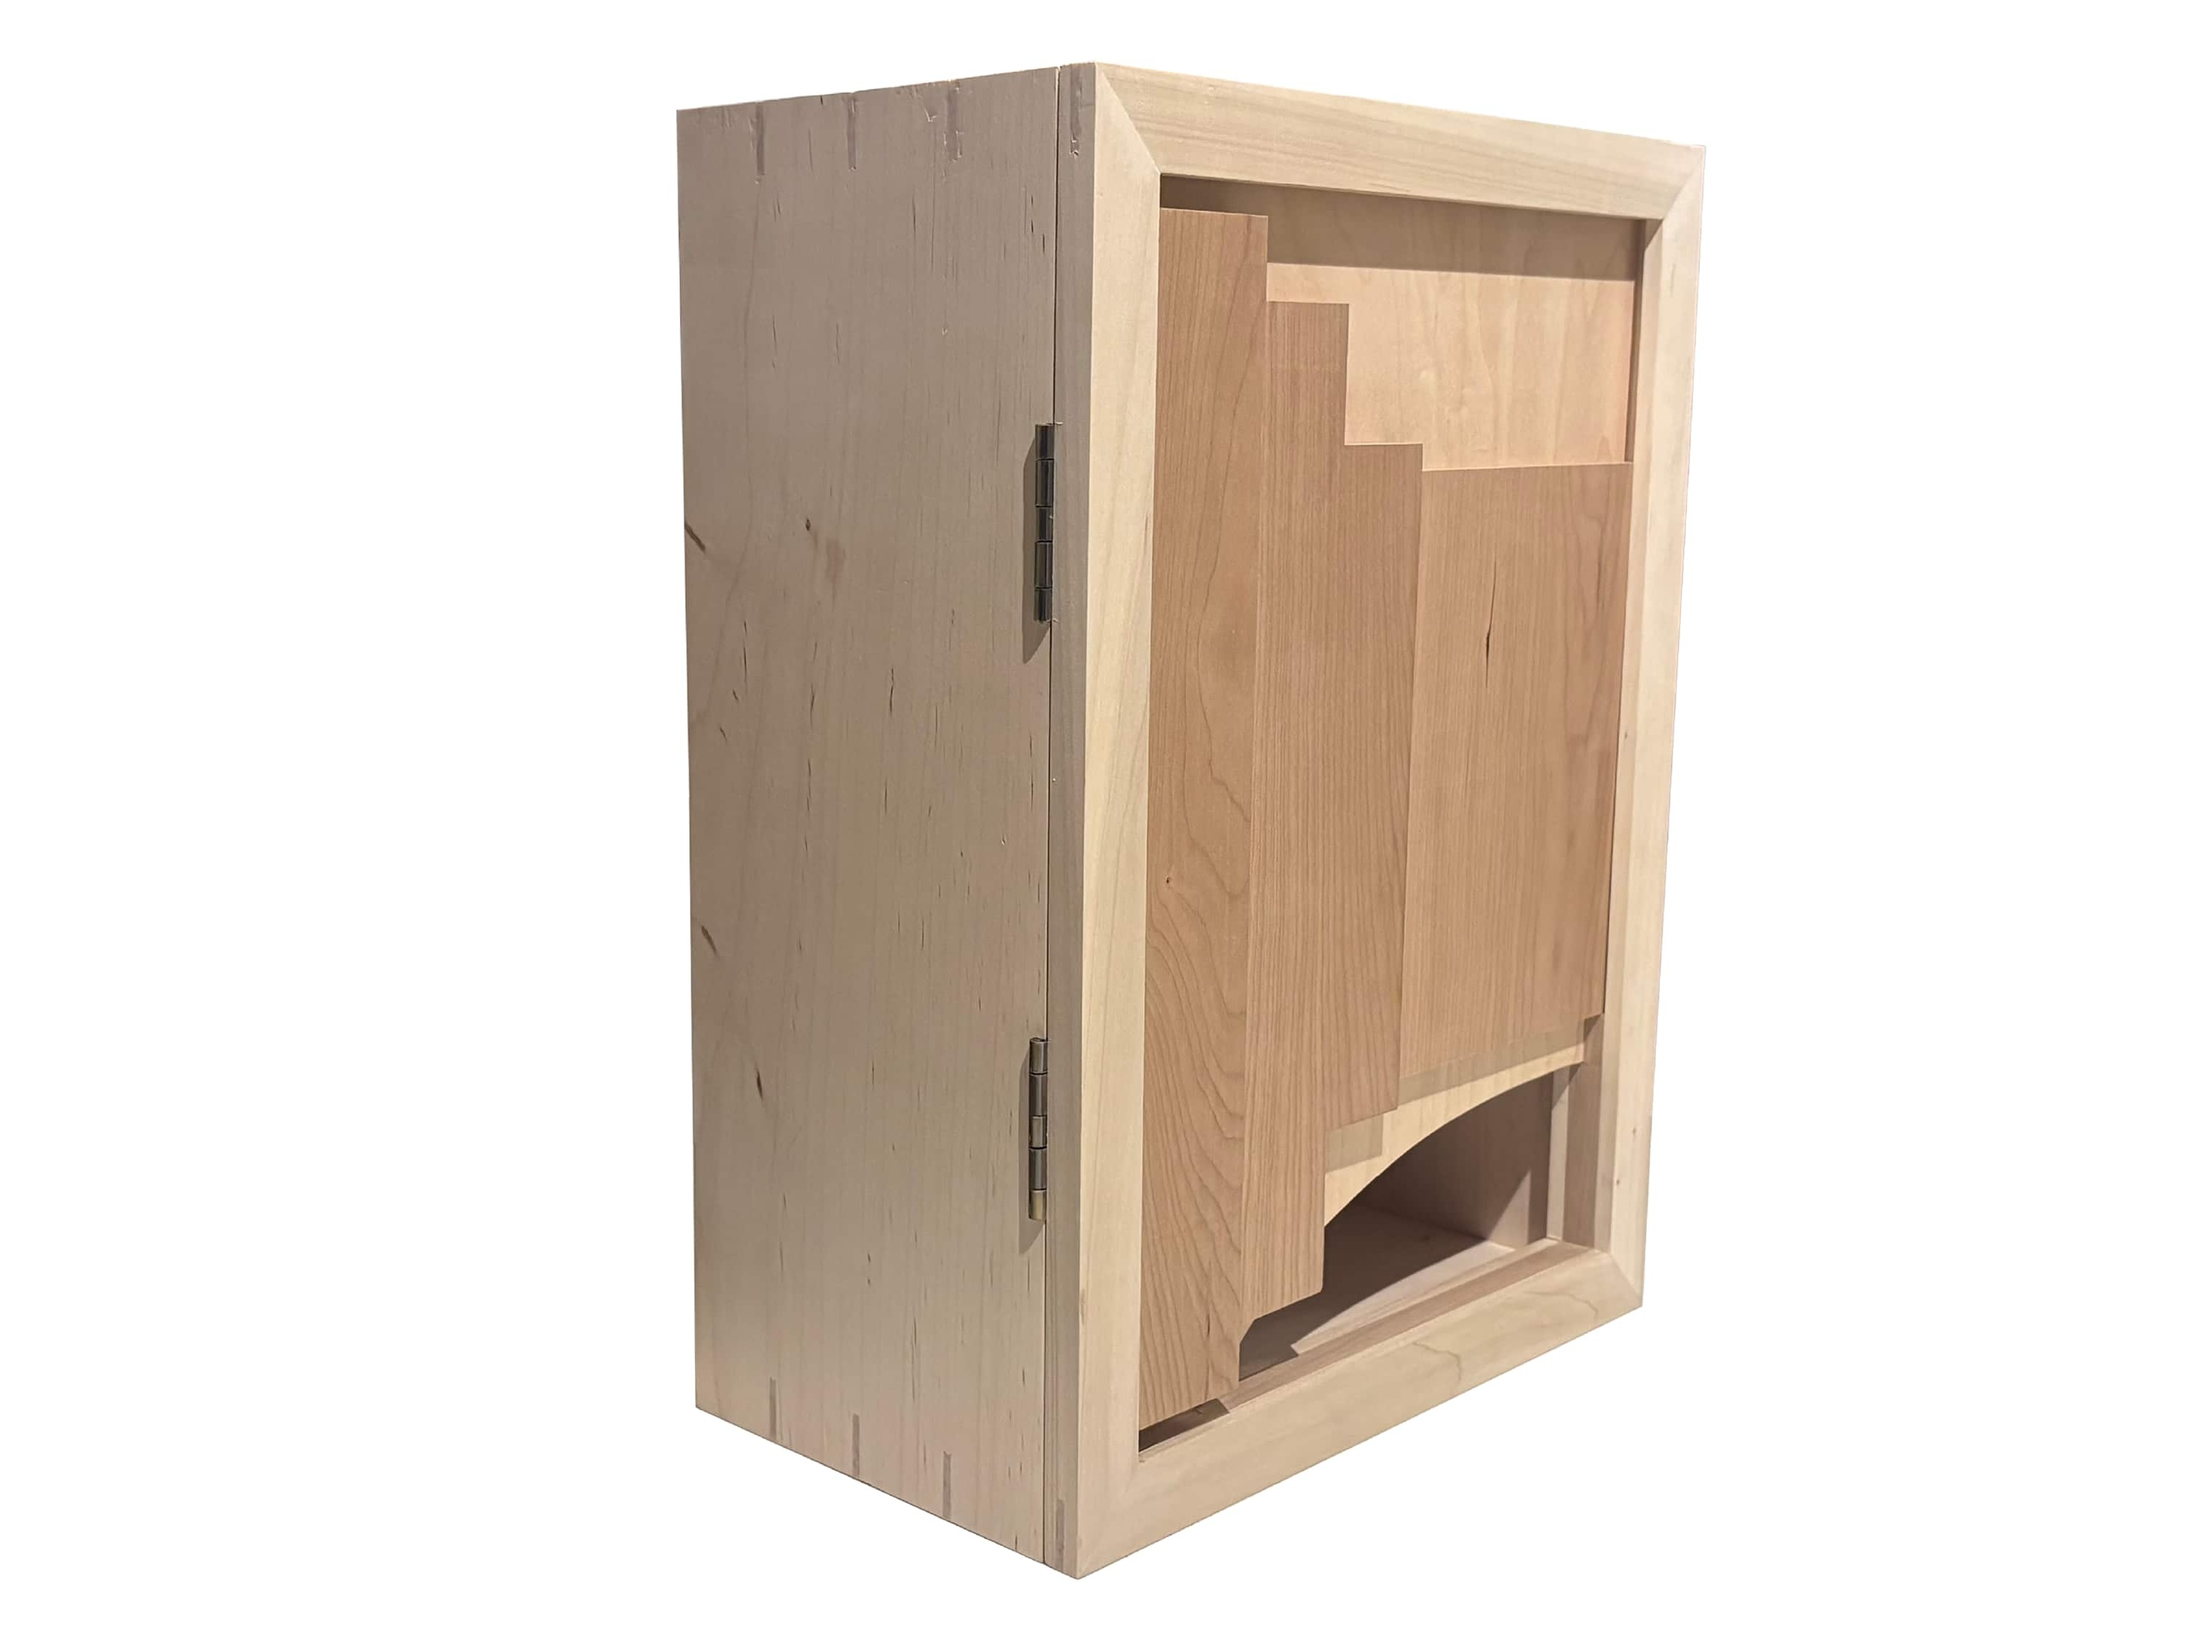
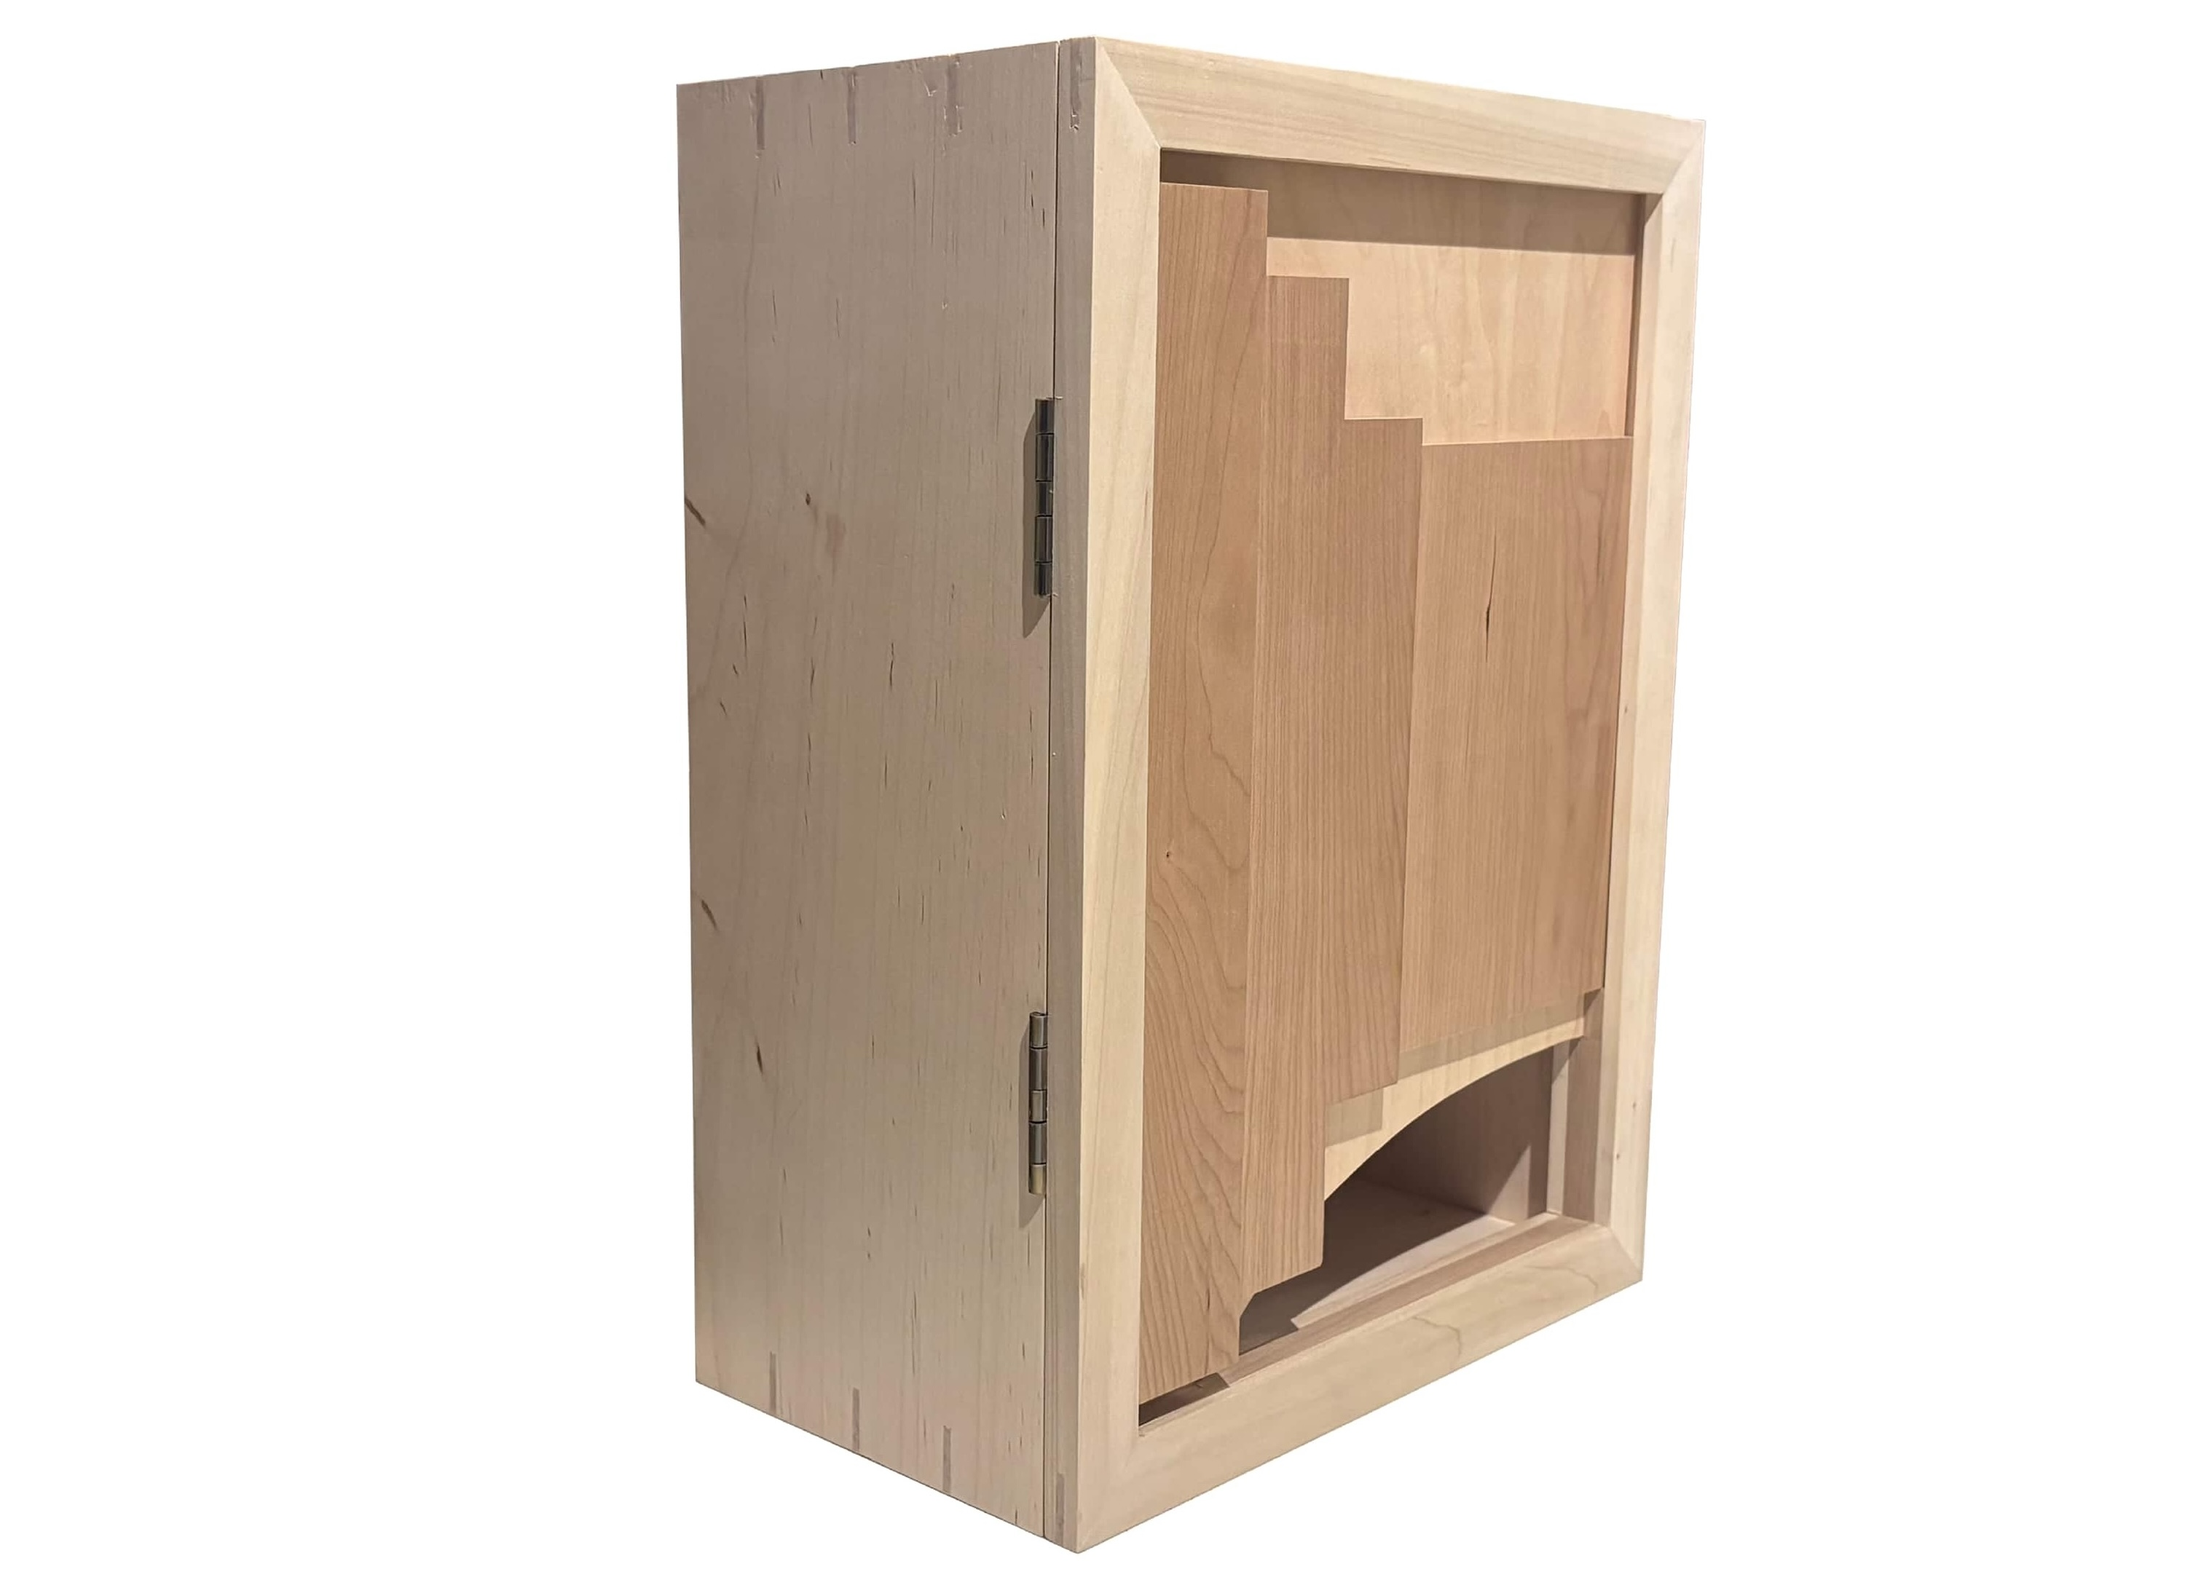
Move preview bar up: reduce hero-spacer from 41vh to 32vh

diff --git a/woodworking.html b/woodworking.html
@@ -22,7 +22,7 @@
             );
         }
 
-        .hero-spacer { height: 41vh; }
+        .hero-spacer { height: 32vh; }
 
         .work-container {
             max-width: 1200px;
